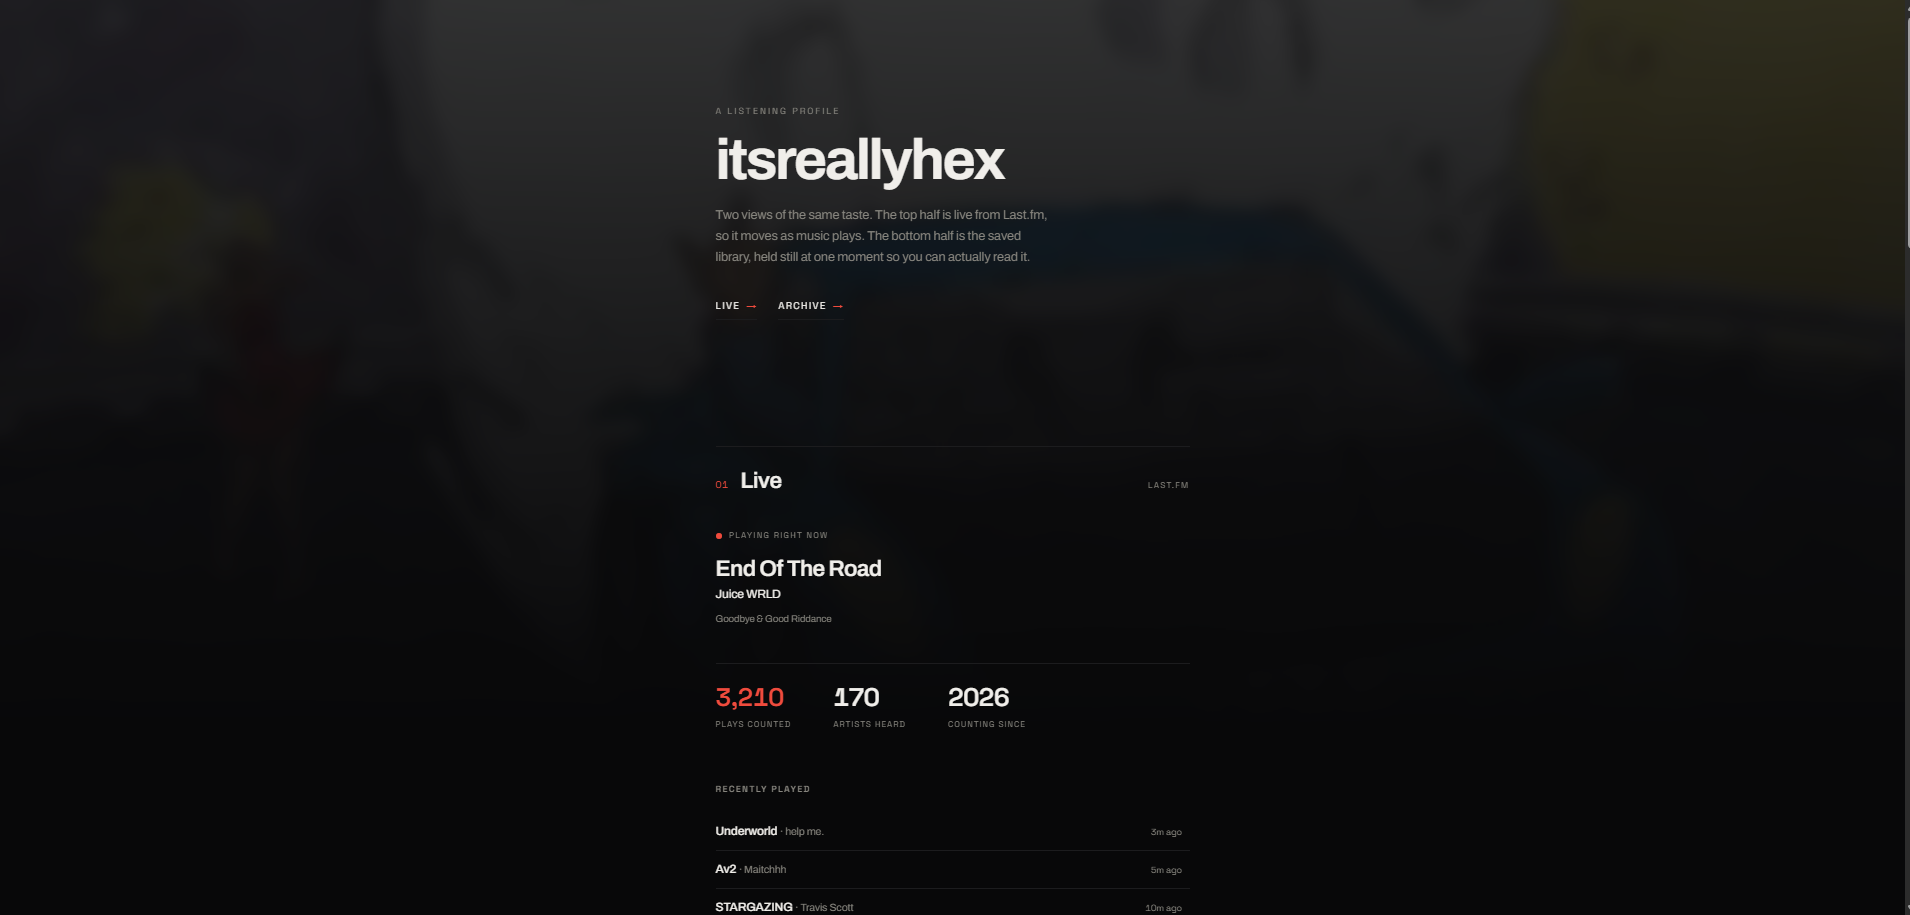
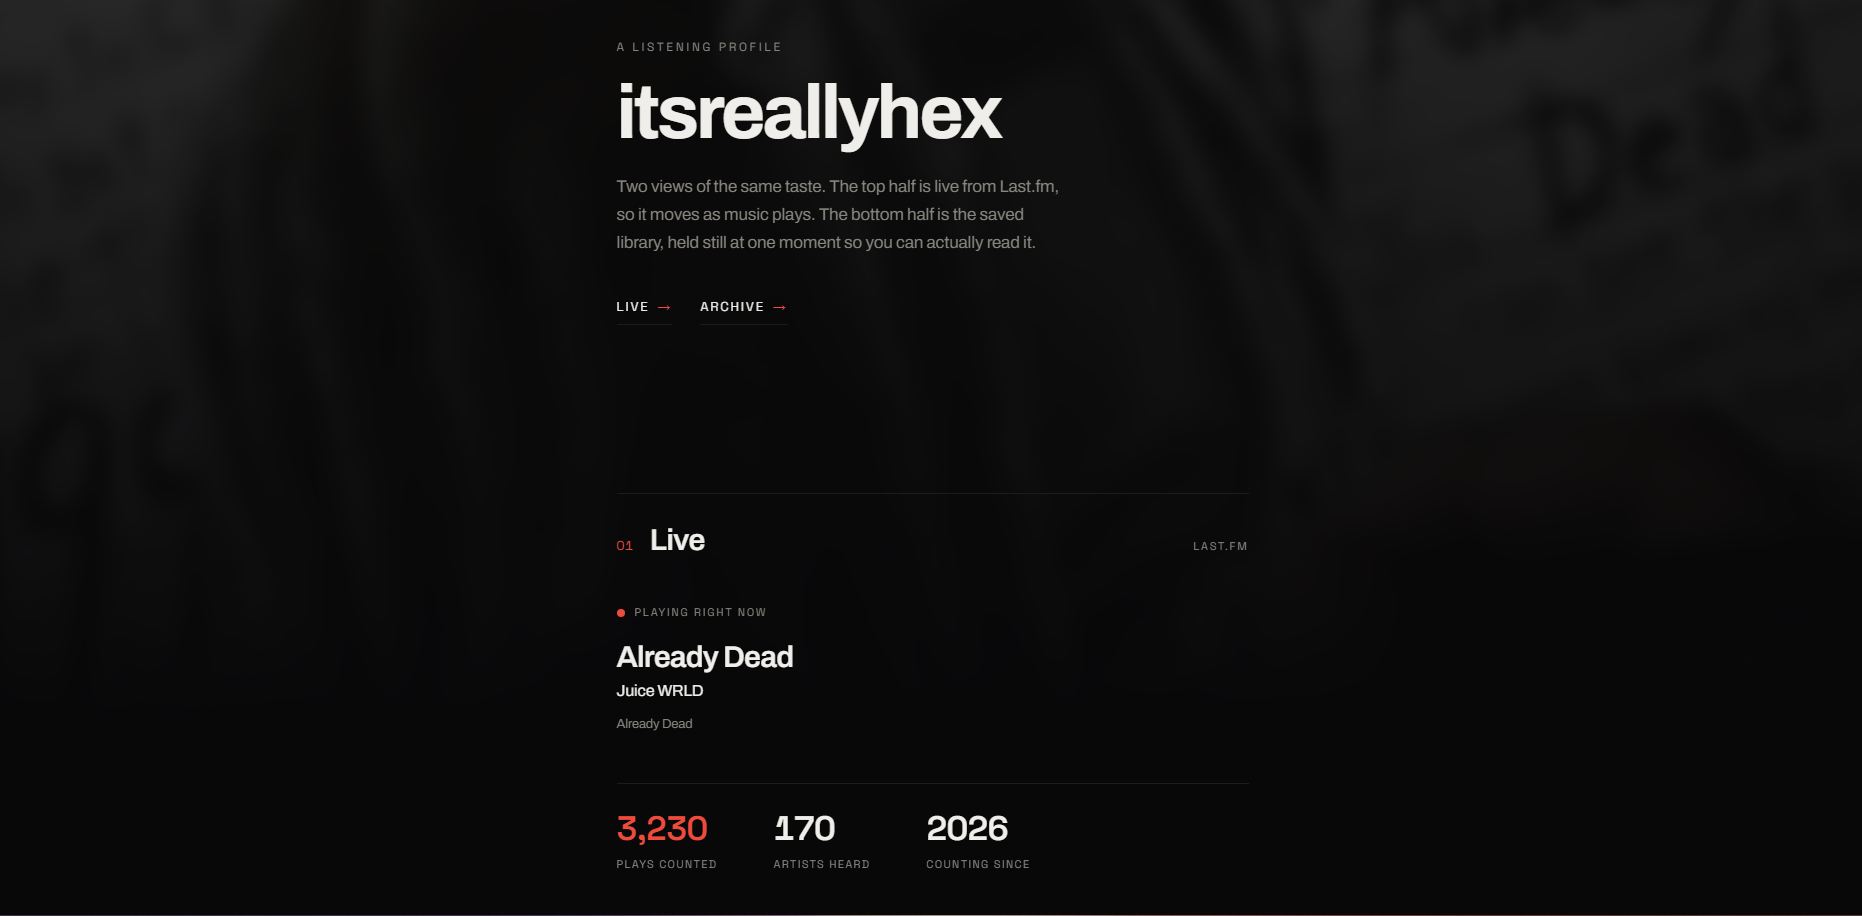
Polish the readme wording and refresh the screenshot
Reword the live section and the config table to match how polling
actually works now, with a fast timer for the current track and a
slower one for the totals and top lists. Update the config keys to
say which path needs them. Swap in a fresh webview screenshot.

diff --git a/README.md b/README.md
@@ -4,11 +4,13 @@
 
 One web page that shows what someone listens to, from two angles.
 
-The top half is **live**. It reads the Last.fm API when the page loads, and
-again every fifteen seconds after that, so it keeps up as music plays. You
-get the current or last track with a small pulse dot when something is on
-right now, the running count of plays and artists, a short list of recent
-tracks, and the all-time top artists and albums.
+The top half is **live**. It reads the Last.fm API when the page loads and
+keeps checking after that, so it stays current as music plays. You get the
+current or last track with a small pulse dot when something is on right now,
+the running count of plays and artists, a short list of recent tracks, and
+the all-time top artists and albums. What is playing refreshes every few
+seconds; the totals and top lists refresh on a slower timer since they
+barely move.
 
 The bottom half is the **archive**. It is a still photo of a Spotify library
 export: how the library breaks down by source, which artists take up the most
@@ -50,13 +52,13 @@ keeps the browser from being fussy about a few things.
 
 | key | needed? | what it does |
 | --- | --- | --- |
-| `lastfmApiKey` | yes | Your Last.fm API key |
-| `lastfmUser` | yes | Your Last.fm username |
+| `lastfmApiKey` | Path A only | Your Last.fm API key |
+| `lastfmUser` | Path A only | Your Last.fm username |
 | `displayName` | no | The name in the header and browser tab. Falls back to `lastfmUser`, then to the name on your Last.fm profile |
-| `refreshMs` | no | How long to wait between checks of Last.fm, in milliseconds. Default is `15000` |
+| `refreshMs` | no | How often to re-check what is playing, in milliseconds. Lower is snappier. Default is `8000`. The totals and top lists refresh on a fixed slower timer |
 
-On Path A, `lastfmApiKey` and `lastfmUser` are both required. On Path B you
-can leave them blank. The next section explains the difference.
+Path A puts the key in this file. Path B moves it to the server and you can
+leave both blank here. The next section explains the difference.
 
 ## The API key: two ways
 
